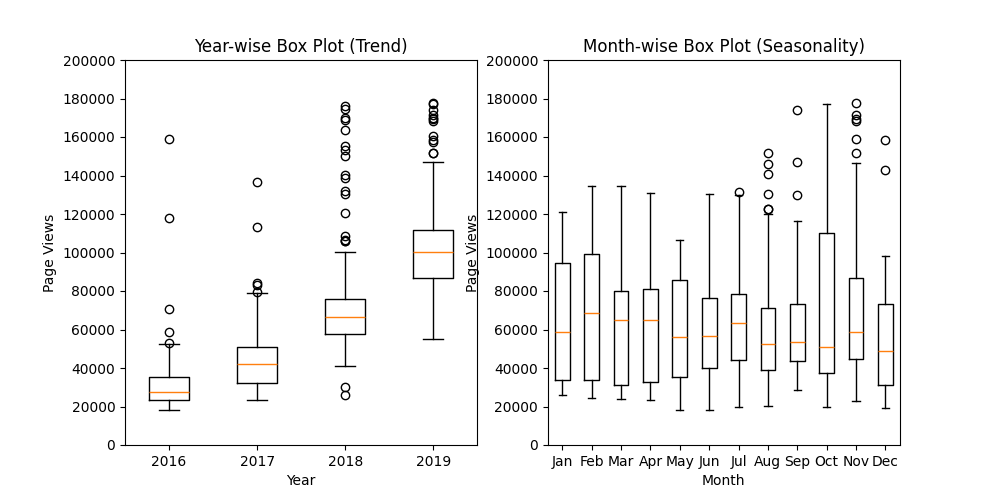
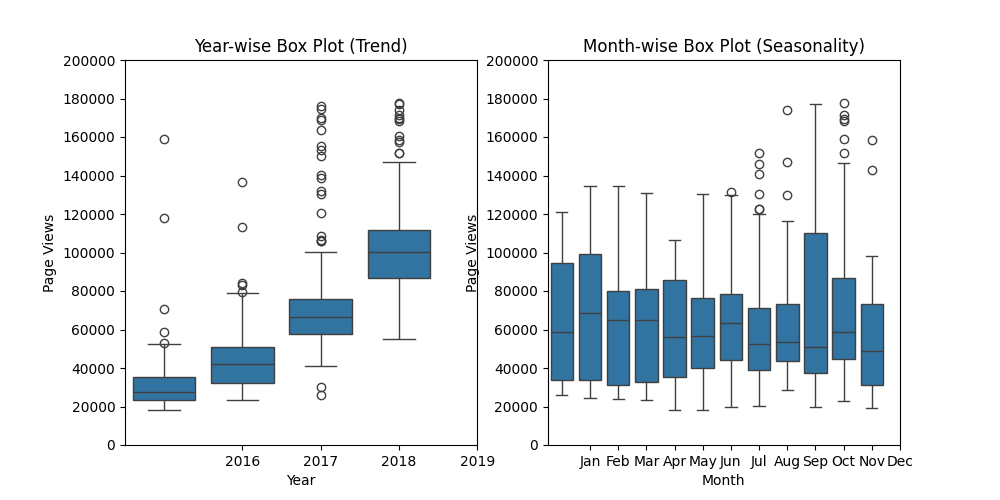
14/01/25 update and we done

diff --git a/time_series_visualizer.py b/time_series_visualizer.py
@@ -3,6 +3,7 @@ import pandas as pd
 # import seaborn as sns
 from pandas.plotting import register_matplotlib_converters
 register_matplotlib_converters()
+import seaborn as sns
 
 df = pd.read_csv("fcc-forum-pageviews.csv")
 df = df.set_index('date')
@@ -12,7 +13,7 @@ df = df.set_index('date')
 ds_sorted = df.sort_values(by='value')
 cutoff_1 = ds_sorted.quantile(0.025)
 cutoff_2 = ds_sorted.quantile(0.975)
-ds = df[(df['value'] >= cutoff_1['value'])
+df = df[(df['value'] >= cutoff_1['value'])
                        & (df['value'] <= cutoff_2['value'])
                       ]
 
@@ -20,7 +21,7 @@ ds = df[(df['value'] >= cutoff_1['value'])
 # df.reset_index(inplace=True)
 
 def draw_line_plot():
-        dff = ds.copy()
+        dff = df.copy()
         dff.reset_index(inplace=True)
         dates = pd.date_range(start = '2016-07', end = '2020-01', freq = '6MS')
         date_labels_for_xticks = list(map(lambda x: x.strftime('%Y-%m'), dates))
@@ -45,7 +46,7 @@ def draw_line_plot():
 
 def draw_bar_plot():
     # Copy and modify data for monthly bar plot
-    dff = ds.copy()
+    dff = df.copy()
     dff.reset_index(inplace=True)
     datess = pd.to_datetime(dff['date'])
     dff['date']  = datess
@@ -83,7 +84,7 @@ def draw_bar_plot():
 
 def draw_box_plot():
   # Prepare data for box plots (this part is done!)
-  df_box = ds.copy()
+  df_box = df.copy()
   df_box.reset_index(inplace=True)
   df_box['date'] = pd.to_datetime(df_box['date']) # Corrected this line
   df_box['year'] = [d.year for d in df_box.date]
@@ -137,7 +138,12 @@ def draw_box_plot():
   fig = plt.figure(figsize=(10, 5))
 
   plt.subplot(1, 2, 1)
-  plt.boxplot(data_y)
+  # plt.boxplot(data_y)
+  sns.boxplot(
+      x = 'year',
+      y = 'value',
+      data = df_box
+      )
   plt.xticks(range(1, len(years) +1), years)
   plt.ylim(0, 200000)
   plt.yticks(range(0, 200001, 20000))
@@ -146,7 +152,13 @@ def draw_box_plot():
   plt.title("Year-wise Box Plot (Trend)") # Changed title
 
   plt.subplot(1, 2, 2)
-  plt.boxplot(dataa_m)
+  # plt.boxplot(dataa_m)
+  sns.boxplot(
+      x = 'month',
+      y = 'value',
+      data = df_box,
+      order = ['Jan', 'Feb', 'Mar', 'Apr', 'May', 'Jun', 'Jul', 'Aug', 'Sep', 'Oct', 'Nov', 'Dec']
+      )
   plt.xticks(for_x_axis_one_m, for_x_axis_two_m)
   plt.ylim(0, 200000)
   plt.yticks(range(0, 200001, 20000))
